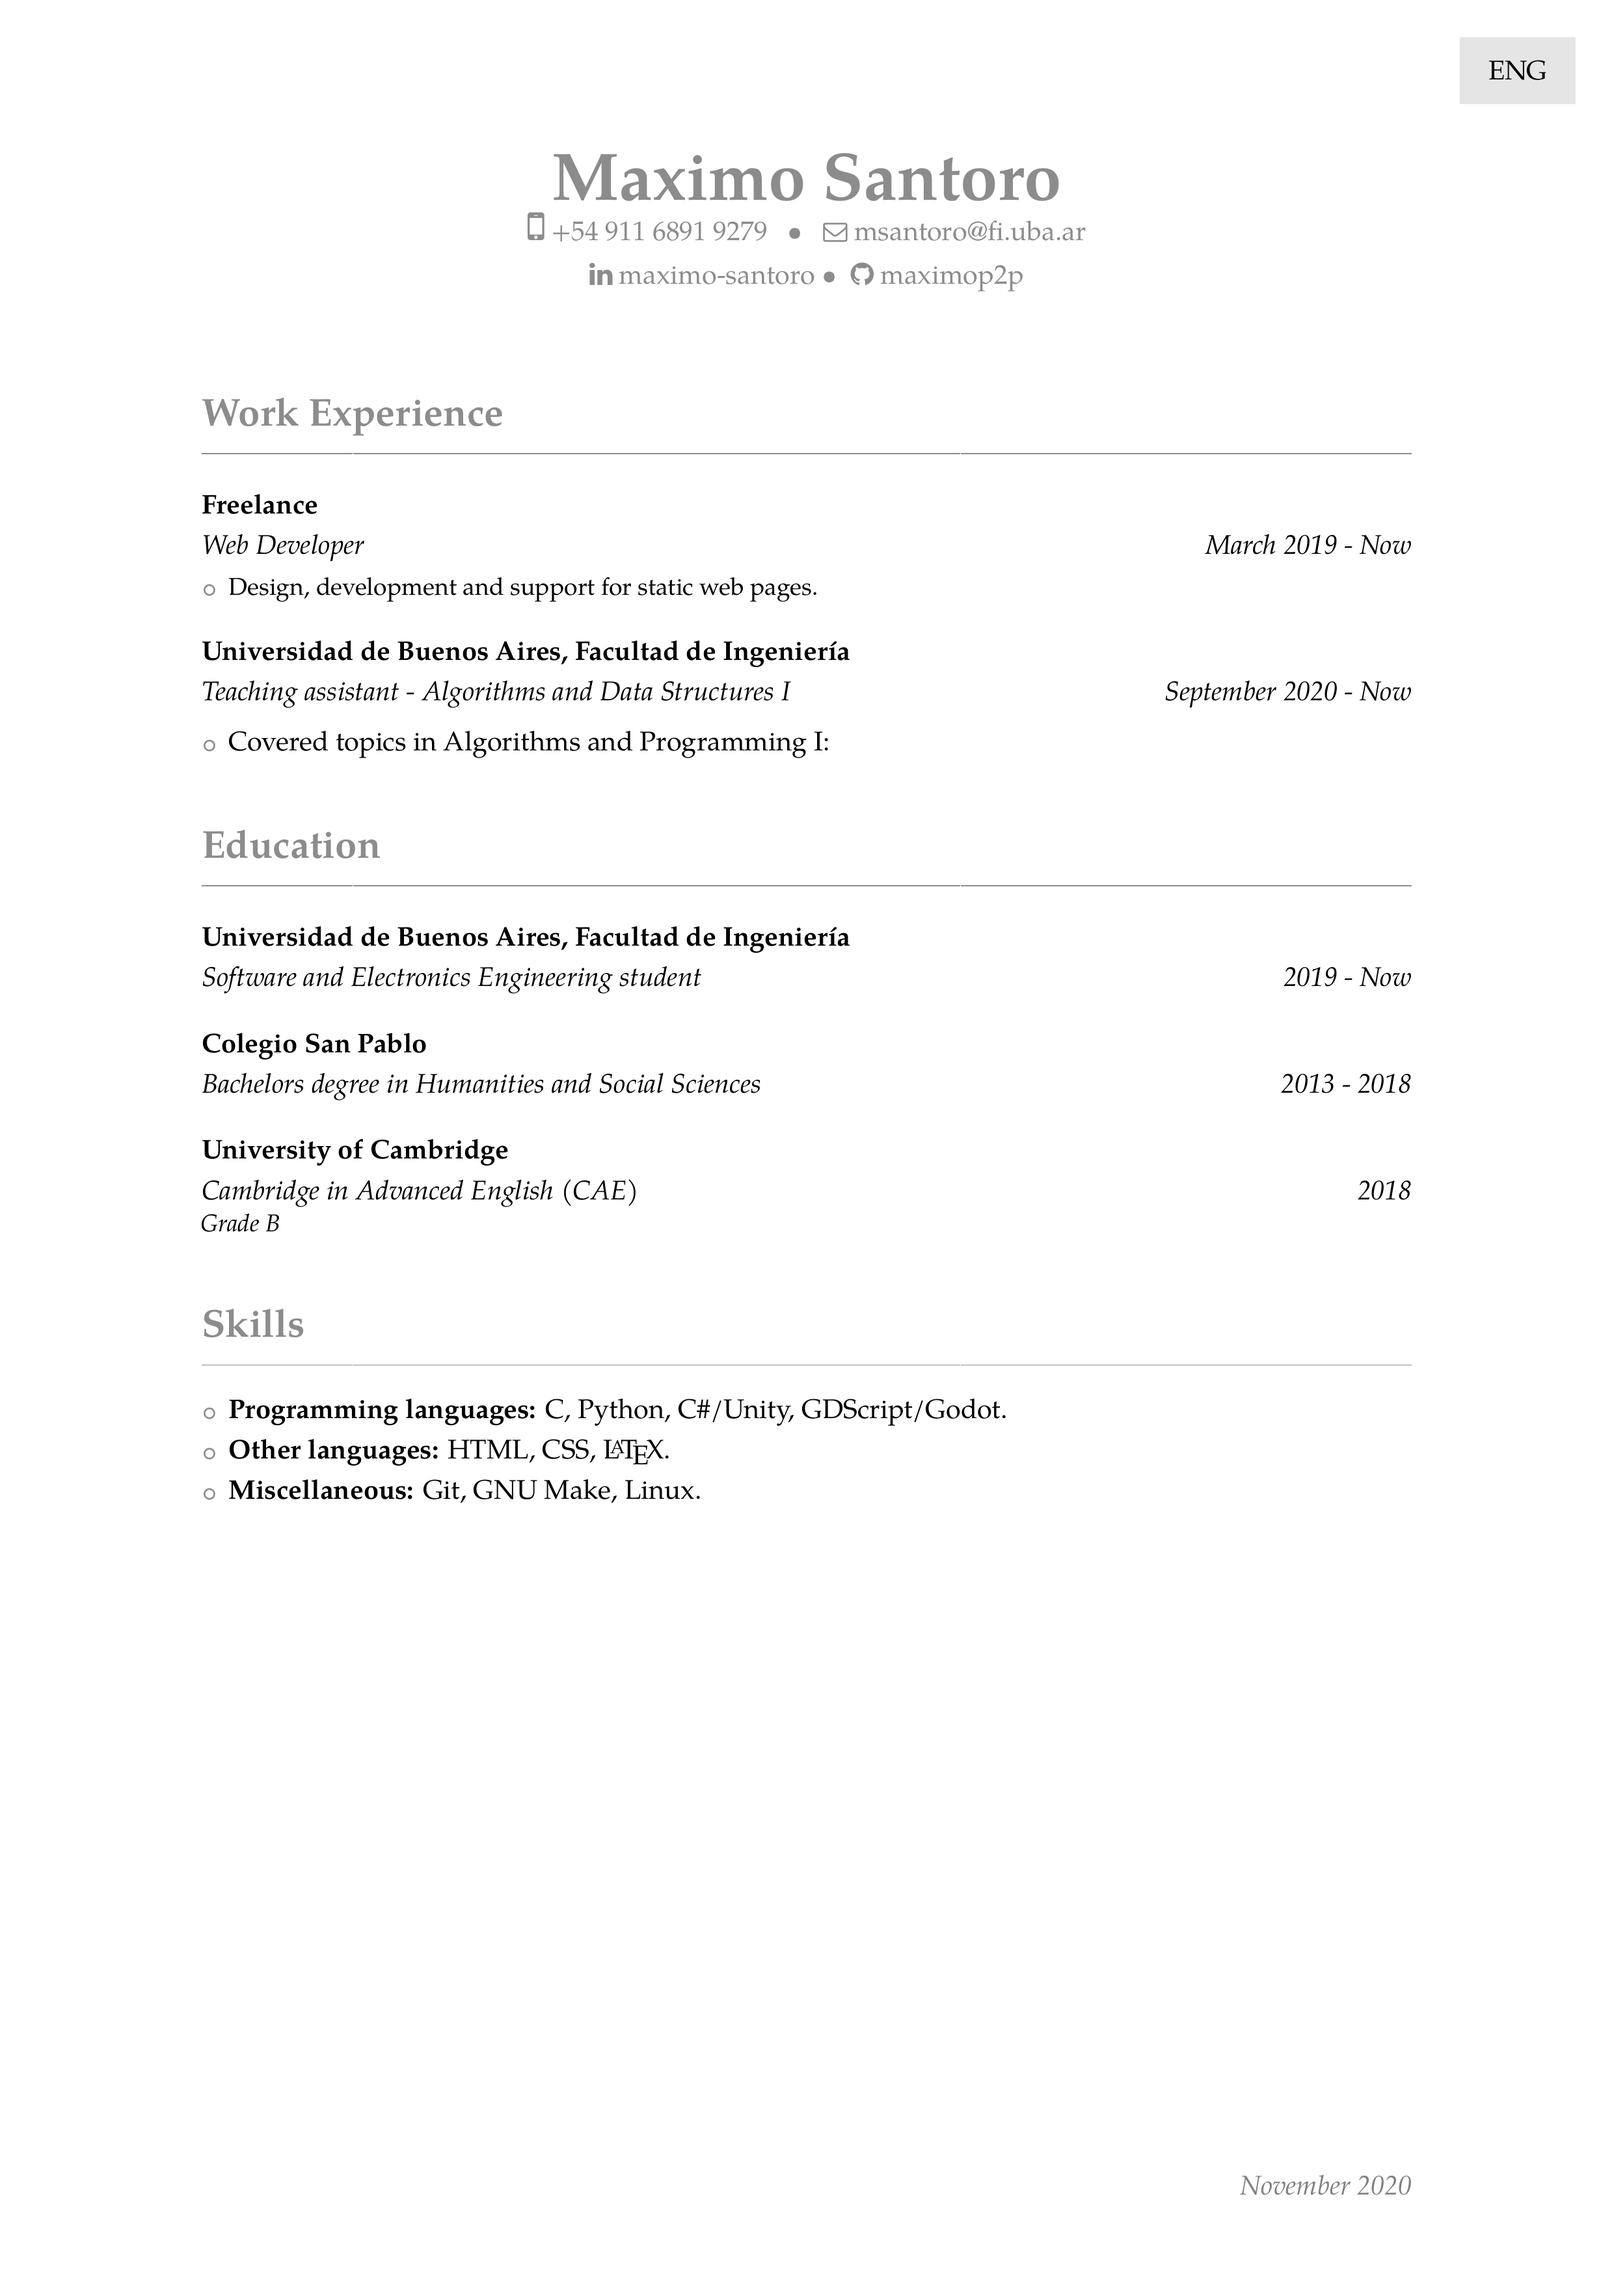
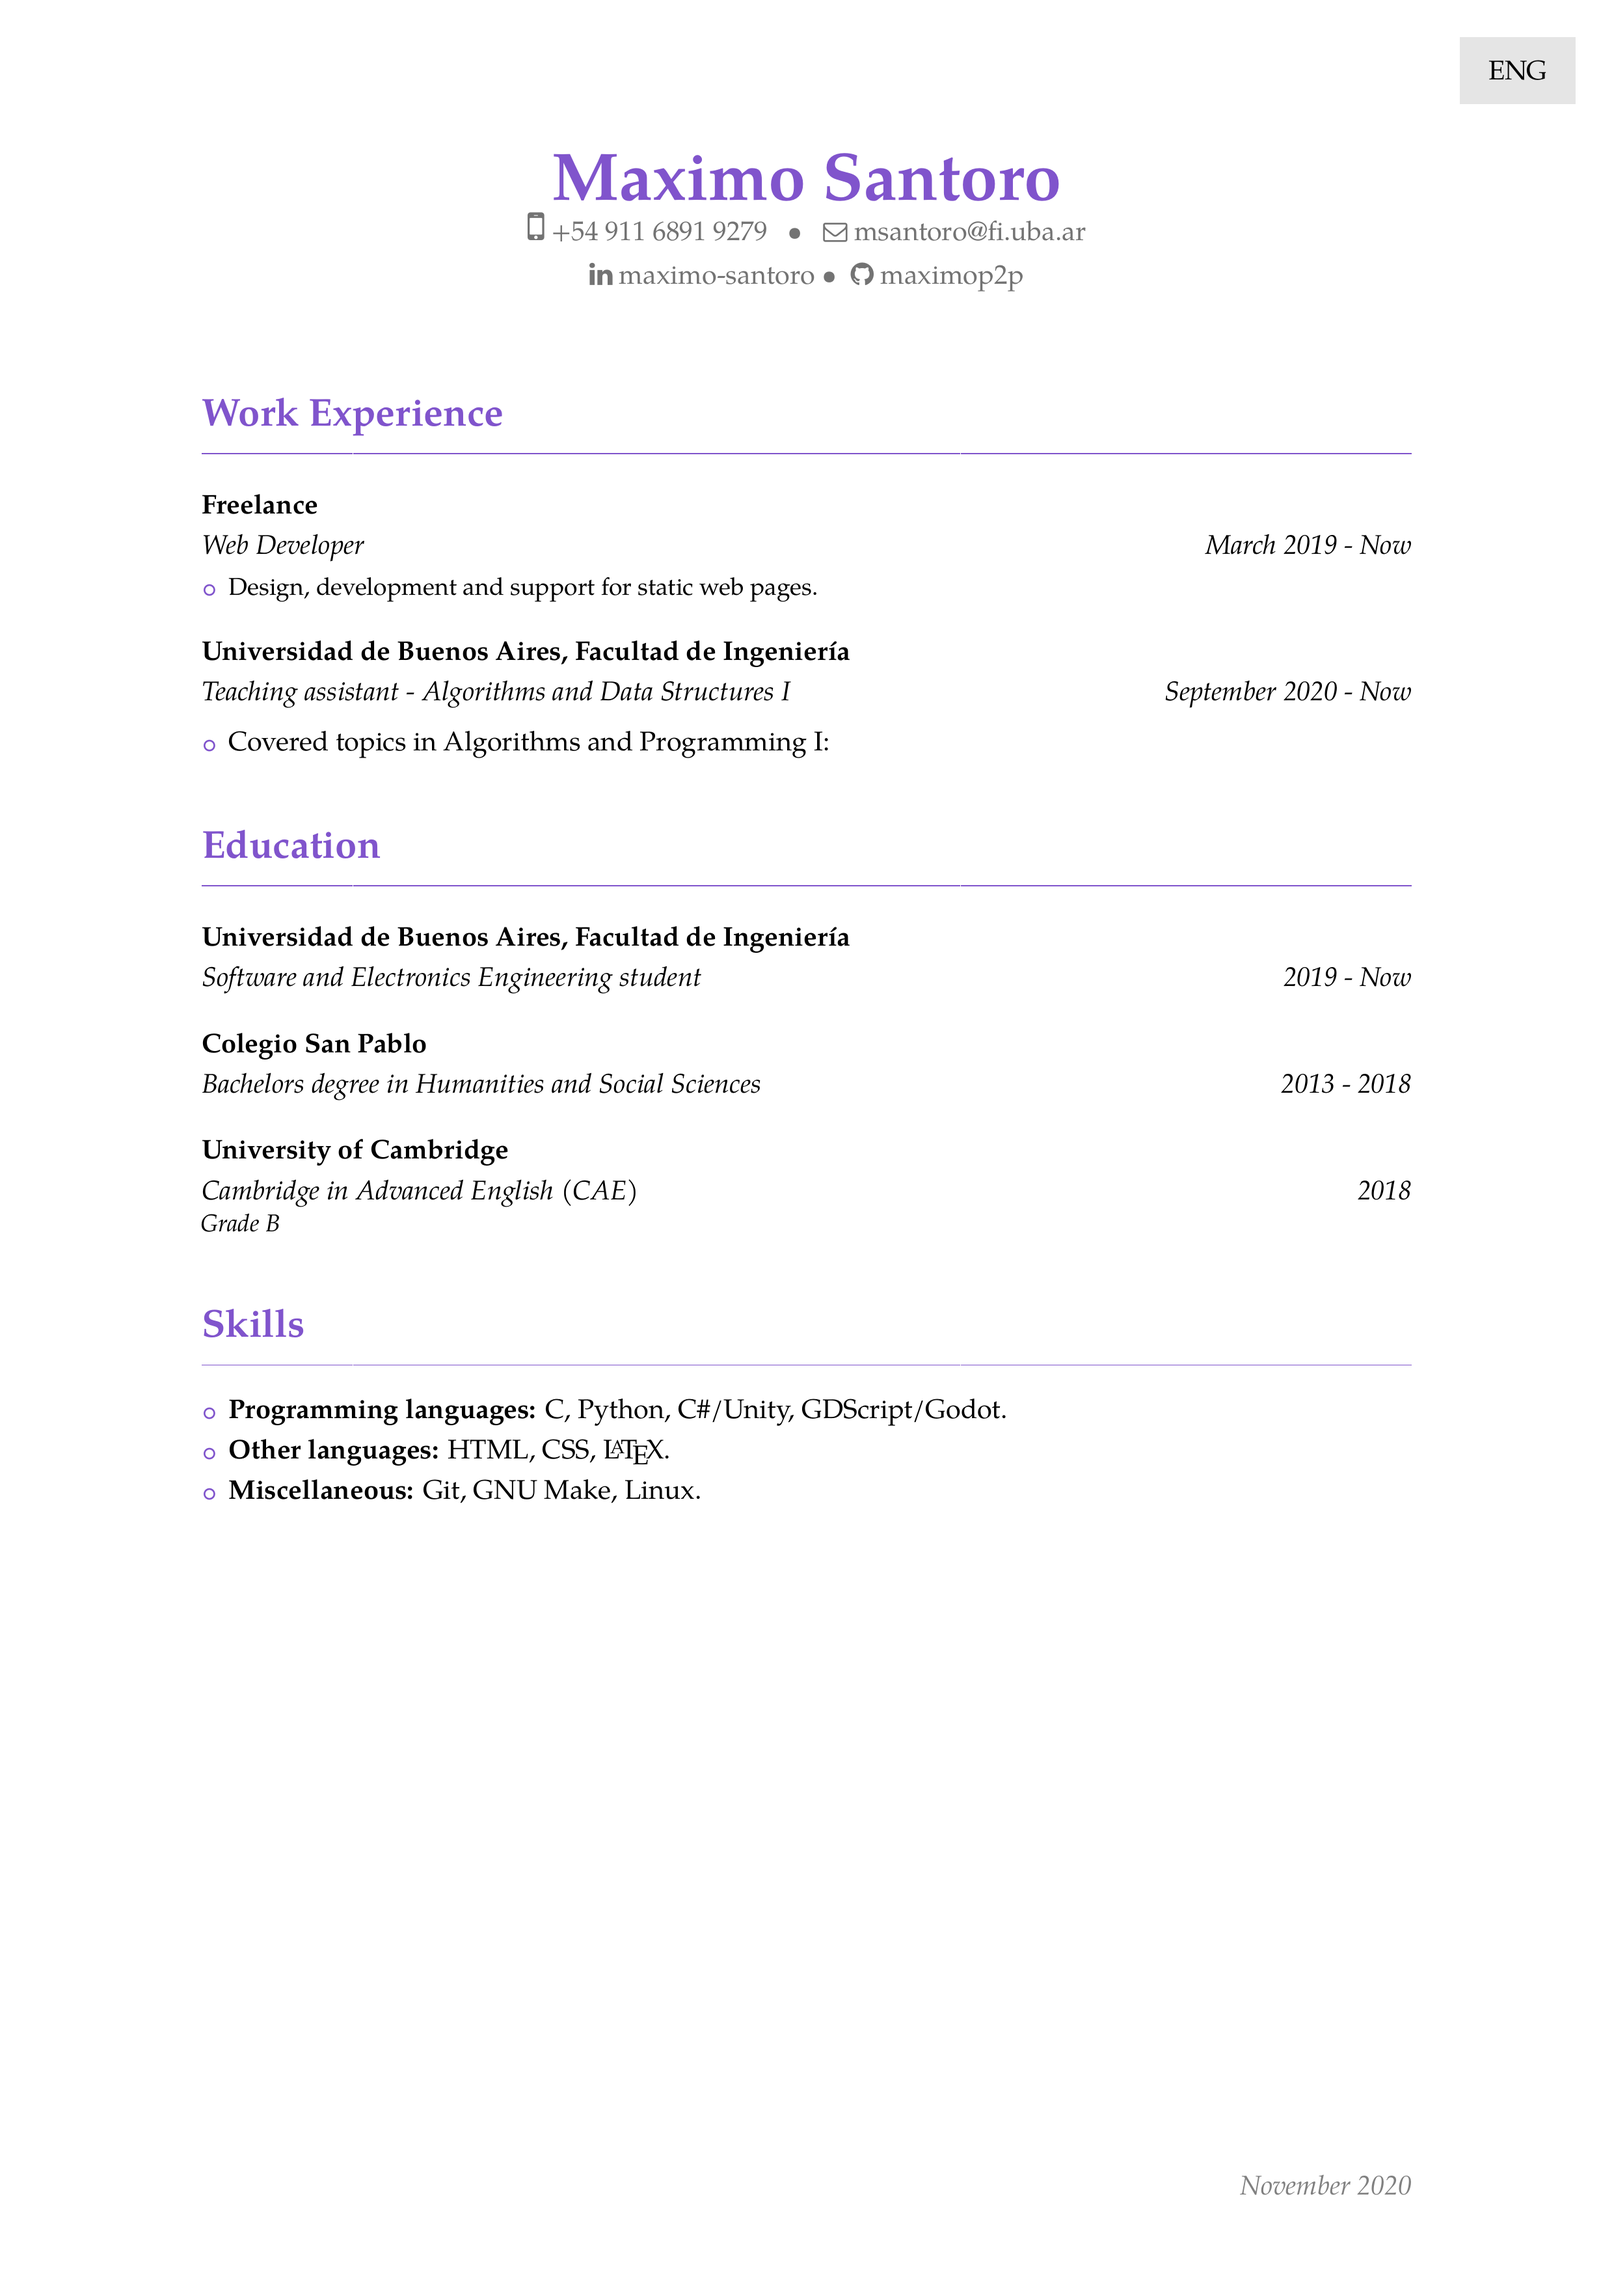
change to purple

diff --git a/setup.tex b/setup.tex
@@ -1,5 +1,5 @@
 \moderncvstyle{banking}
-\moderncvcolor{grey} % blue, orange, green, red, purple, grey, black
+\moderncvcolor{purple} % blue, orange, green, red, purple, grey, black
 \usepackage[utf8]{inputenc}
 \usepackage[spanish,es-lcroman,es-notilde,english]{babel} 
 
